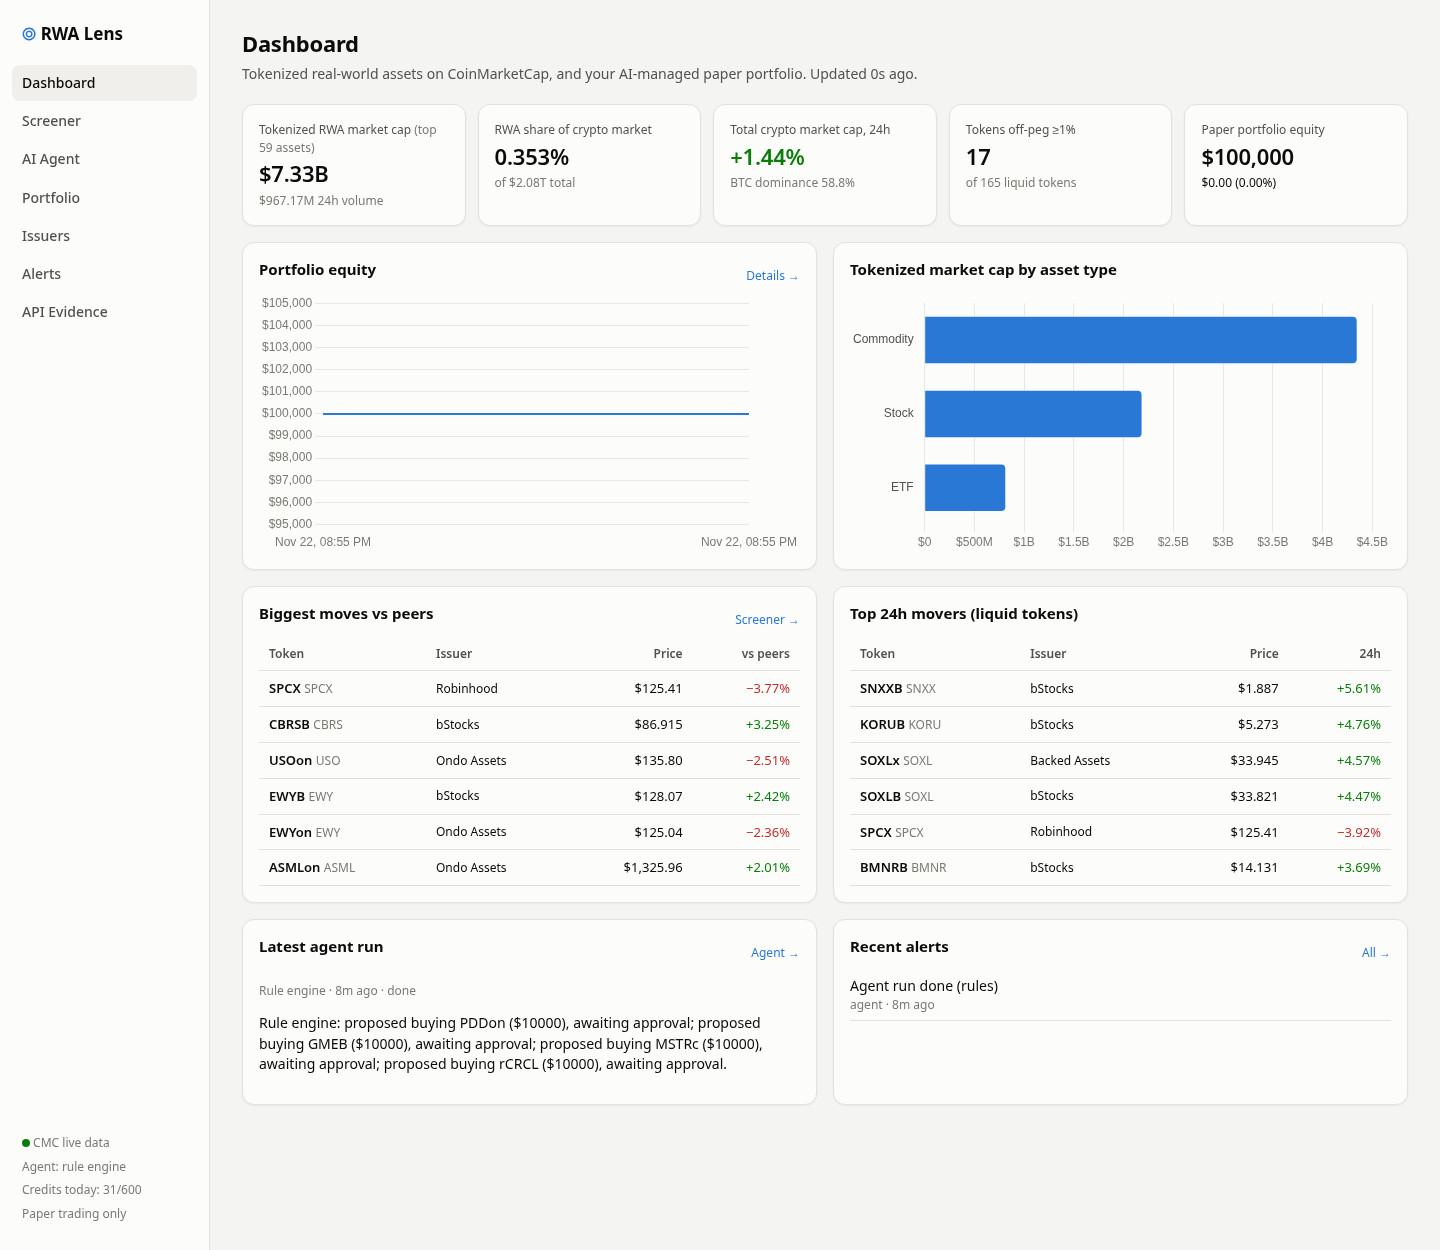
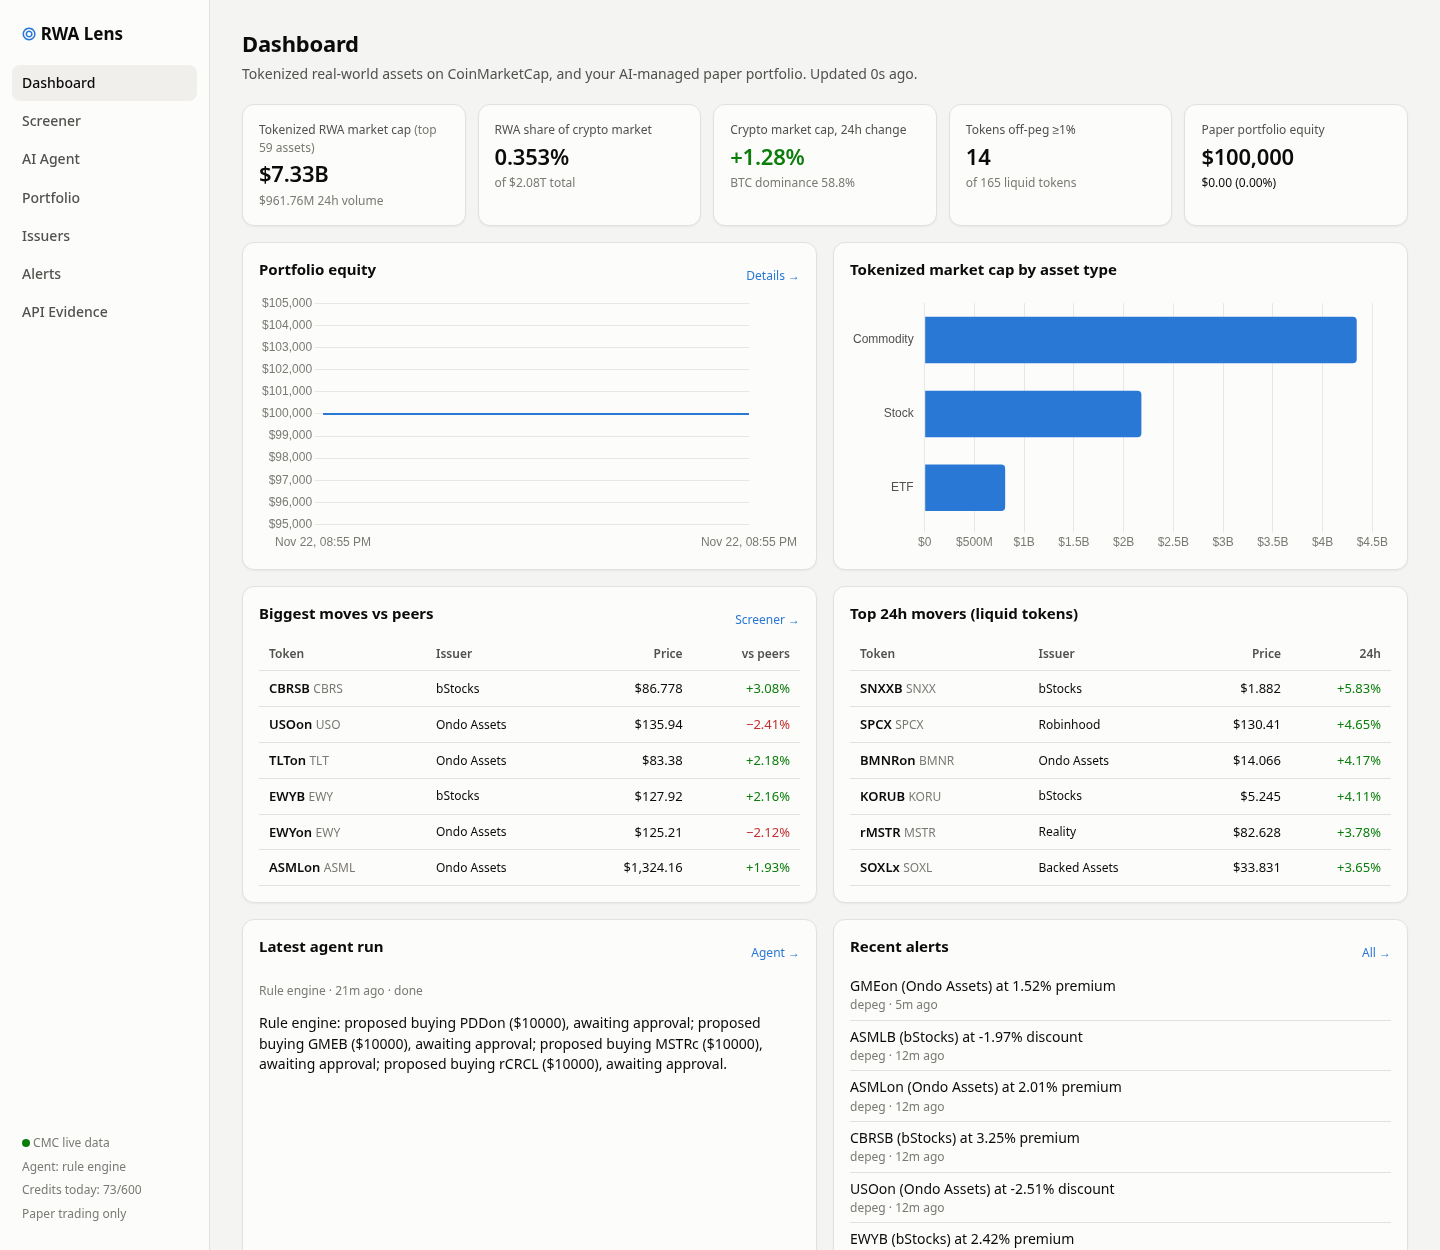
fix(web): mobile layout, keyboard-friendly dialogs and clearer labels
QA pass driving headless Chrome over every route in light, dark and
phone viewports plus mock mode (no JS errors, no failed requests).

- Agent page no longer overflows on phones; runs list becomes a
  horizontal strip
- Secondary table columns hide below 700px (screener, issuers,
  portfolio, approvals) so key numbers stay readable
- Dialogs close on Escape, submit on Enter, focus the first field and
  carry dialog semantics
- Per-page browser titles; clearer 24h crypto market cap label
- API-only server explains how to build or run the UI instead of 404
- Refreshed README screenshots

diff --git a/web/src/pages/portfolio.ts b/web/src/pages/portfolio.ts
@@ -18,14 +18,14 @@ export async function renderPortfolio(app: HTMLElement, token: number) {
     </div>
     <div class="card"><h2>Equity over time</h2><div class="chart-box">${eq.length > 1 ? `<canvas id="eq"></canvas>` : `<div class="empty">No history yet.</div>`}</div></div>
     <div class="card" style="margin-top:16px"><h2>Positions</h2>
-      ${pf.positions.length ? `<div class="table-wrap"><table><thead><tr><th>Token</th><th>Asset</th><th class="num">Qty</th><th class="num">Avg cost</th><th class="num">Last</th><th class="num">Value</th><th class="num">Unrealized</th><th>Opened</th><th></th></tr></thead><tbody>
-      ${pf.positions.map((p: any, i: number) => `<tr><td><span class="sym">${esc(p.symbol)}</span><div class="small muted">${esc(p.issuerName ?? "")}</div></td><td>${esc(p.assetSymbol)}</td><td class="num">${Number(p.qty.toPrecision(6))}</td><td class="num">${usd(p.avgCost)}</td><td class="num">${usd(p.lastPrice)}<div class="small muted">${ago(p.lastPricedAt)}</div></td><td class="num">${usd(p.value)}</td><td class="num">${signedUsd(p.unrealizedPnl)}<div class="small">${pct(p.unrealizedPct)}</div></td><td class="small muted">${ago(p.openedAt)}</td>
+      ${pf.positions.length ? `<div class="table-wrap"><table><thead><tr><th>Token</th><th>Asset</th><th class="num">Qty</th><th class="num hide-sm">Avg cost</th><th class="num">Last</th><th class="num">Value</th><th class="num">Unrealized</th><th class="hide-sm">Opened</th><th></th></tr></thead><tbody>
+      ${pf.positions.map((p: any, i: number) => `<tr><td><span class="sym">${esc(p.symbol)}</span><div class="small muted">${esc(p.issuerName ?? "")}</div></td><td>${esc(p.assetSymbol)}</td><td class="num">${Number(p.qty.toPrecision(6))}</td><td class="num hide-sm">${usd(p.avgCost)}</td><td class="num">${usd(p.lastPrice)}<div class="small muted">${ago(p.lastPricedAt)}</div></td><td class="num">${usd(p.value)}</td><td class="num">${signedUsd(p.unrealizedPnl)}<div class="small">${pct(p.unrealizedPct)}</div></td><td class="small muted hide-sm">${ago(p.openedAt)}</td>
         <td class="row" style="flex-wrap:nowrap"><button class="sm" data-buy="${i}">Add</button><button class="sm" data-sell="${i}">Sell</button></td></tr>`).join("")}
       </tbody></table></div>` : `<div class="empty">No open positions. Run the agent or trade from the <a href="#/screener">screener</a>.</div>`}
     </div>
     <div class="card" style="margin-top:16px"><h2>Order history</h2>
-      ${orders.length ? `<div class="table-wrap"><table><thead><tr><th>Time</th><th>Source</th><th>Side</th><th>Token</th><th class="num">Notional</th><th class="num">Price</th><th class="num">Slip</th><th class="num">Realized</th><th>Status</th><th>Reason</th></tr></thead><tbody>
-      ${orders.map((o) => `<tr><td class="small muted">${new Date(o.at).toLocaleString([], { month: "short", day: "numeric", hour: "2-digit", minute: "2-digit" })}</td><td class="small">${esc(o.source)}</td><td><b>${o.side.toUpperCase()}</b></td><td class="sym">${esc(o.symbol)}</td><td class="num">${o.status === "filled" ? usd(o.notional) : o.requestedUsd ? usd(o.requestedUsd) : "—"}</td><td class="num">${o.status === "filled" ? usd(o.price) : "—"}</td><td class="num small">${o.status === "filled" ? `${o.slippageBps.toFixed(1)} bps` : ""}</td><td class="num">${o.side === "sell" && o.status === "filled" ? signedUsd(o.realizedPnl) : ""}</td><td class="small ${o.status === "rejected" ? "down" : ""}">${esc(o.status)}${o.rejectReason && o.status === "rejected" ? `<div class="muted">${esc(o.rejectReason)}</div>` : ""}</td><td class="small">${esc(o.reason)}</td></tr>`).join("")}
+      ${orders.length ? `<div class="table-wrap"><table><thead><tr><th>Time</th><th class="hide-sm">Source</th><th>Side</th><th>Token</th><th class="num">Notional</th><th class="num">Price</th><th class="num hide-sm">Slip</th><th class="num">Realized</th><th>Status</th><th class="hide-sm">Reason</th></tr></thead><tbody>
+      ${orders.map((o) => `<tr><td class="small muted">${new Date(o.at).toLocaleString([], { month: "short", day: "numeric", hour: "2-digit", minute: "2-digit" })}</td><td class="small hide-sm">${esc(o.source)}</td><td><b>${o.side.toUpperCase()}</b></td><td class="sym">${esc(o.symbol)}</td><td class="num">${o.status === "filled" ? usd(o.notional) : o.requestedUsd ? usd(o.requestedUsd) : "—"}</td><td class="num">${o.status === "filled" ? usd(o.price) : "—"}</td><td class="num small hide-sm">${o.status === "filled" ? `${o.slippageBps.toFixed(1)} bps` : ""}</td><td class="num">${o.side === "sell" && o.status === "filled" ? signedUsd(o.realizedPnl) : ""}</td><td class="small ${o.status === "rejected" ? "down" : ""}">${esc(o.status)}${o.rejectReason && o.status === "rejected" ? `<div class="muted">${esc(o.rejectReason)}</div>` : ""}</td><td class="small hide-sm">${esc(o.reason)}</td></tr>`).join("")}
       </tbody></table></div>` : `<div class="empty">No orders yet.</div>`}
     </div>`;
 

diff --git a/web/src/pages/screener.ts b/web/src/pages/screener.ts
@@ -2,16 +2,16 @@ import { isCurrent } from "../main";
 import { ago, api, chips, esc, pct, scoreCell, typeLabel, usd } from "../lib";
 import { openTrade } from "../trade";
 
-const COLS: { key: string; label: string; num?: boolean }[] = [
+const COLS: { key: string; label: string; num?: boolean; sm?: boolean }[] = [
   { key: "symbol", label: "Token" },
-  { key: "assetSymbol", label: "Asset" },
-  { key: "issuerName", label: "Issuer" },
+  { sm: true, key: "assetSymbol", label: "Asset" },
+  { sm: true, key: "issuerName", label: "Issuer" },
   { key: "price", label: "Price", num: true },
   { key: "premiumPct", label: "vs peers", num: true },
   { key: "change24h", label: "24h", num: true },
-  { key: "change7d", label: "7d", num: true },
-  { key: "mcap", label: "Mkt cap", num: true },
-  { key: "vol24h", label: "24h vol", num: true },
+  { sm: true, key: "change7d", label: "7d", num: true },
+  { sm: true, key: "mcap", label: "Mkt cap", num: true },
+  { sm: true, key: "vol24h", label: "24h vol", num: true },
   { key: "score", label: "Score", num: true },
 ];
 
@@ -51,19 +51,19 @@ export async function renderScreener(app: HTMLElement, token: number, params: UR
       tbl.innerHTML = `<div class="empty">No tokens match these filters.</div>`;
       return;
     }
-    tbl.innerHTML = `<table><thead><tr>${COLS.map((c) => `<th class="sortable ${c.num ? "num" : ""}" data-k="${c.key}">${c.label}${state.sort === c.key ? (state.dir === "asc" ? " ↑" : " ↓") : ""}</th>`).join("")}<th>Signals</th><th></th></tr></thead><tbody>
+    tbl.innerHTML = `<table><thead><tr>${COLS.map((c) => `<th class="sortable ${c.num ? "num" : ""} ${c.sm ? "hide-sm" : ""}" data-k="${c.key}">${c.label}${state.sort === c.key ? (state.dir === "asc" ? " ↑" : " ↓") : ""}</th>`).join("")}<th class="hide-sm">Signals</th><th></th></tr></thead><tbody>
       ${data.rows.map((r: any, i: number) => `<tr class="clickable" data-rwa="${r.rwaId}">
         <td><span class="sym">${esc(r.symbol)}</span><div class="small muted">${esc(r.name)}</div></td>
-        <td>${esc(r.assetSymbol)}<div class="small muted">${typeLabel(r.assetType)}</div></td>
-        <td class="small">${esc(r.issuerName)}</td>
+        <td class="hide-sm">${esc(r.assetSymbol)}<div class="small muted">${typeLabel(r.assetType)}</div></td>
+        <td class="small hide-sm">${esc(r.issuerName)}</td>
         <td class="num">${usd(r.price)}</td>
         <td class="num">${r.premiumPct == null ? `<span class="muted" title="${r.signals.includes("UNIT_MISMATCH") ? "different unit from its siblings" : "no comparable sibling"}">n/a</span>` : pct(r.premiumPct)}</td>
         <td class="num">${pct(r.change24h)}</td>
-        <td class="num">${pct(r.change7d)}</td>
-        <td class="num">${usd(r.mcap, { compact: true })}</td>
-        <td class="num">${usd(r.vol24h, { compact: true })}</td>
+        <td class="num hide-sm">${pct(r.change7d)}</td>
+        <td class="num hide-sm">${usd(r.mcap, { compact: true })}</td>
+        <td class="num hide-sm">${usd(r.vol24h, { compact: true })}</td>
         <td class="num">${scoreCell(r.score)}</td>
-        <td>${chips(r.signals)}</td>
+        <td class="hide-sm">${chips(r.signals)}</td>
         <td><button class="sm" data-trade="${i}">Trade</button></td>
       </tr>`).join("")}
     </tbody></table>`;

diff --git a/web/src/pages/issuers.ts b/web/src/pages/issuers.ts
@@ -10,8 +10,8 @@ export async function renderIssuers(app: HTMLElement, token: number) {
     <h1>Issuer scorecard</h1>
     <p class="sub">Who tokenizes what, built from the tokens in the screener universe plus CMC's issuer directory (${d.directoryCount} issuers listed). <b>Peg tightness</b> is the average absolute deviation of an issuer's tokens from their peers: lower means tighter tracking.</p>
     <div class="card"><h2>Tokenized market cap by issuer (top 12)</h2><div class="chart-box tall"><canvas id="mc"></canvas></div></div>
-    <div class="card" style="margin-top:16px"><div class="table-wrap"><table><thead><tr><th>Issuer</th><th class="num">Tokens</th><th class="num">Assets</th><th>Types</th><th class="num">Mkt cap</th><th class="num">24h vol</th><th class="num">Turnover</th><th class="num">Peg tightness</th></tr></thead><tbody>
-      ${rows.map((r: any) => `<tr><td><b>${esc(r.issuer)}</b>${r.website ? `<div class="small"><a href="${esc(r.website)}" target="_blank" rel="noopener">${esc(r.website.replace(/^https?:\/\//, ""))}</a></div>` : ""}</td><td class="num">${r.tokens}${r.totalTokensListed ? `<div class="small muted">${r.totalTokensListed} listed</div>` : ""}</td><td class="num">${r.assets}</td><td class="small">${r.assetTypes.map(typeLabel).join(", ")}</td><td class="num">${usd(r.mcap, { compact: true })}</td><td class="num">${usd(r.vol24h, { compact: true })}</td><td class="num">${r.turnover == null ? "—" : `${(r.turnover * 100).toFixed(1)}%`}</td><td class="num">${r.avgAbsPremiumPct == null ? "—" : `±${r.avgAbsPremiumPct.toFixed(2)}%`}</td></tr>`).join("")}
+    <div class="card" style="margin-top:16px"><div class="table-wrap"><table><thead><tr><th>Issuer</th><th class="num">Tokens</th><th class="num hide-sm">Assets</th><th class="hide-sm">Types</th><th class="num">Mkt cap</th><th class="num">24h vol</th><th class="num hide-sm">Turnover</th><th class="num">Peg tightness</th></tr></thead><tbody>
+      ${rows.map((r: any) => `<tr><td><b>${esc(r.issuer)}</b>${r.website ? `<div class="small"><a href="${esc(r.website)}" target="_blank" rel="noopener">${esc(r.website.replace(/^https?:\/\//, ""))}</a></div>` : ""}</td><td class="num">${r.tokens}${r.totalTokensListed ? `<div class="small muted">${r.totalTokensListed} listed</div>` : ""}</td><td class="num hide-sm">${r.assets}</td><td class="small hide-sm">${r.assetTypes.map(typeLabel).join(", ")}</td><td class="num">${usd(r.mcap, { compact: true })}</td><td class="num">${usd(r.vol24h, { compact: true })}</td><td class="num hide-sm">${r.turnover == null ? "—" : `${(r.turnover * 100).toFixed(1)}%`}</td><td class="num">${r.avgAbsPremiumPct == null ? "—" : `±${r.avgAbsPremiumPct.toFixed(2)}%`}</td></tr>`).join("")}
     </tbody></table></div></div>`;
   barChart(app.querySelector("#mc")!, top.map((r: any) => r.issuer), top.map((r: any) => r.mcap), compactUsd);
 }

diff --git a/web/src/pages/agent.ts b/web/src/pages/agent.ts
@@ -19,13 +19,13 @@ export async function renderAgent(app: HTMLElement, token: number, runId?: strin
     ${status?.adminRequired ? `<div class="banner">This deployment requires an admin token for actions. <input id="tok" placeholder="admin token" value="${esc(adminToken.get())}" style="margin-left:8px"/> <button class="sm" id="savetok">Save</button></div>` : ""}
 
     ${pf.pending.length ? `<div class="card" style="margin-bottom:16px"><h2>Waiting for your approval (${pf.pending.length})</h2>
-      <div class="table-wrap"><table><thead><tr><th>Side</th><th>Token</th><th class="num">Amount</th><th>Agent's reason</th><th>Proposed</th><th></th></tr></thead><tbody>
-      ${pf.pending.map((o: any) => `<tr><td><b>${o.side.toUpperCase()}</b></td><td class="sym">${esc(o.symbol)}</td><td class="num">${o.side === "buy" ? usd(o.requestedUsd, { dp: 0 }) : o.requestedQty ? "partial" : "close"}</td><td class="small">${esc(o.reason)}</td><td class="small muted">${ago(o.at)}</td>
+      <div class="table-wrap"><table><thead><tr><th>Side</th><th>Token</th><th class="num">Amount</th><th>Agent's reason</th><th class="hide-sm">Proposed</th><th></th></tr></thead><tbody>
+      ${pf.pending.map((o: any) => `<tr><td><b>${o.side.toUpperCase()}</b></td><td class="sym">${esc(o.symbol)}</td><td class="num">${o.side === "buy" ? usd(o.requestedUsd, { dp: 0 }) : o.requestedQty ? "partial" : "close"}</td><td class="small">${esc(o.reason)}</td><td class="small muted hide-sm">${ago(o.at)}</td>
         <td class="row" style="flex-wrap:nowrap"><button class="sm primary" data-approve="${o.id}">Approve</button><button class="sm" data-cancel="${o.id}">Reject</button></td></tr>`).join("")}
       </tbody></table></div>
       <div class="row" style="margin-top:10px"><button class="sm" id="approve-all">Approve all</button></div></div>` : ""}
 
-    <div class="grid" style="grid-template-columns: 300px minmax(0,1fr)">
+    <div class="grid runs-layout">
       <div class="card"><h2>Runs</h2><div id="runs">${runs.length ? runs.map((r) => `
         <div class="run-item ${r.id === selected ? "active" : ""}" data-run="${r.id}">
           <div class="spread"><b>${r.engine === "claude" ? "Claude" : "Rules"}</b><span class="small muted">${ago(r.startedAt)}</span></div>

diff --git a/web/src/style.css b/web/src/style.css
@@ -76,6 +76,7 @@ main { padding: 28px 32px 60px; min-width: 0; max-width: 1400px; }
 .grid { display: grid; gap: 16px; }
 .cols-2 { grid-template-columns: repeat(2, minmax(0, 1fr)); }
 .cols-3 { grid-template-columns: repeat(3, minmax(0, 1fr)); }
+.runs-layout { grid-template-columns: 300px minmax(0, 1fr); }
 .tiles { display: grid; gap: 12px; grid-template-columns: repeat(auto-fit, minmax(170px, 1fr)); margin-bottom: 16px; }
 .card { background: var(--surface-1); border: 1px solid var(--border); border-radius: 12px; padding: 16px; box-shadow: var(--shadow); min-width: 0; }
 .tile .label { color: var(--text-secondary); font-size: 12px; }
@@ -143,6 +144,11 @@ details summary { cursor: pointer; color: var(--text-secondary); font-size: 12px
 .dot.live { background: var(--good); }
 .dot.mock { background: #eda100; }
 
+@media (max-width: 700px) {
+  .hide-sm { display: none; }
+  h1 { font-size: 20px; }
+  .tile .value { font-size: 19px; }
+}
 @media (max-width: 900px) {
   .shell { grid-template-columns: 1fr; }
   .nav { position: static; height: auto; flex-direction: row; flex-wrap: wrap; align-items: center; gap: 8px; padding: 10px 16px; }
@@ -150,7 +156,9 @@ details summary { cursor: pointer; color: var(--text-secondary); font-size: 12px
   .brand { padding: 4px 8px; }
   .nav-foot { display: none; }
   main { padding: 18px 16px 40px; }
-  .cols-2, .cols-3 { grid-template-columns: 1fr; }
+  .cols-2, .cols-3, .runs-layout { grid-template-columns: 1fr; }
+  #runs { display: flex; gap: 6px; overflow-x: auto; }
+  #runs .run-item { min-width: 170px; }
 }
 td.params { max-width: 320px; overflow: hidden; text-overflow: ellipsis; white-space: nowrap; }
 td.nowrap { white-space: nowrap; }

diff --git a/web/src/pages/dashboard.ts b/web/src/pages/dashboard.ts
@@ -20,7 +20,7 @@ export async function renderDashboard(app: HTMLElement, token: number) {
     <div class="tiles">
       <div class="card tile"><div class="label">Tokenized RWA market cap <span class="muted">(top ${ov.rwa.assets} assets)</span></div><div class="value">${usd(ov.rwa.tokenizedMcap, { compact: true })}</div><div class="delta muted">${usd(ov.rwa.vol24h, { compact: true })} 24h volume</div></div>
       <div class="card tile"><div class="label">RWA share of crypto market</div><div class="value">${ov.rwaSharePct?.toFixed(3) ?? "—"}%</div><div class="delta muted">of ${usd(ov.crypto.totalMcap, { compact: true })} total</div></div>
-      <div class="card tile"><div class="label">Total crypto market cap, 24h</div><div class="value">${pct(ov.crypto.totalMcapChange24h)}</div><div class="delta muted">BTC dominance ${ov.crypto.btcDominance?.toFixed(1)}%</div></div>
+      <div class="card tile"><div class="label">Crypto market cap, 24h change</div><div class="value">${pct(ov.crypto.totalMcapChange24h)}</div><div class="delta muted">BTC dominance ${ov.crypto.btcDominance?.toFixed(1)}%</div></div>
       <div class="card tile"><div class="label">Tokens off-peg ≥1%</div><div class="value">${ov.depegCount}</div><div class="delta muted">of ${ov.rwa.tradableTokens} liquid tokens</div></div>
       <div class="card tile"><div class="label">Paper portfolio equity</div><div class="value">${usd(pf.equity, { dp: 0 })}</div><div class="delta">${signedUsd(pf.totalPnl)} (${pct(pf.totalPnlPct)})</div></div>
     </div>

diff --git a/server/index.ts b/server/index.ts
@@ -16,13 +16,17 @@ const dist = path.join(ROOT, "web", "dist");
 if (fs.existsSync(dist)) {
   await app.register(fastifyStatic, { root: dist });
   app.setNotFoundHandler((req, reply) => (req.url.startsWith("/api/") ? reply.code(404).send({ error: "not found" }) : reply.sendFile("index.html")));
+} else {
+  // API-only (e.g. `npm run dev`, where Vite serves the UI on :5173)
+  app.get("/", async (_req, reply) =>
+    reply.type("text/html").send(`<p style="font-family:sans-serif">RWA Lens API is running. Build the UI with <code>npm run build</code> and restart, or use <code>npm run dev</code> and open <a href="http://localhost:5173">http://localhost:5173</a>.</p>`));
 }
 
 closeStaleRuns();
 startScheduler();
 
 await app.listen({ port: config.port, host: process.env.HOST ?? "0.0.0.0" });
-console.log(`RWA Lens API on http://localhost:${config.port}`);
+console.log(`RWA Lens on http://localhost:${config.port}${fs.existsSync(dist) ? "" : "  (API only - UI not built; run npm run build, or npm run dev for :5173)"}`);
 console.log(`  CMC data: ${mockMode() ? "MOCK (no CMC_API_KEY - synthetic/recorded fixtures)" : "LIVE"}`);
 console.log(`  Agent engine: ${resolveEngine()}${resolveEngine() === "rules" ? " (set ANTHROPIC_API_KEY to use Claude)" : ` (${config.anthropicModel})`}`);
 console.log(`  Paper trading only: no real orders are ever sent.`);

diff --git a/web/src/lib.ts b/web/src/lib.ts
@@ -62,9 +62,21 @@ export function toast(msg: string, err = false) {
 export function modal(html: string, onMount: (root: HTMLElement, close: () => void) => void) {
   const root = document.getElementById("modal-root")!;
   root.innerHTML = `<div class="modal-backdrop"><div class="modal">${html}</div></div>`;
-  const close = () => (root.innerHTML = "");
+  const onKey = (e: KeyboardEvent) => {
+    if (e.key === "Escape") close();
+    if (e.key === "Enter" && (e.target as HTMLElement).tagName === "INPUT") root.querySelector<HTMLButtonElement>(".modal button.primary")?.click();
+  };
+  const close = () => {
+    root.innerHTML = "";
+    document.removeEventListener("keydown", onKey);
+  };
+  document.addEventListener("keydown", onKey);
   root.querySelector(".modal-backdrop")!.addEventListener("click", (e) => { if (e.target === e.currentTarget) close(); });
-  onMount(root.querySelector(".modal")!, close);
+  const box = root.querySelector<HTMLElement>(".modal")!;
+  box.setAttribute("role", "dialog");
+  box.setAttribute("aria-modal", "true");
+  onMount(box, close);
+  box.querySelector<HTMLElement>("input, select, button.primary")?.focus();
 }
 
 // ---------- charts ----------

diff --git a/web/src/main.ts b/web/src/main.ts
@@ -50,6 +50,8 @@ async function route() {
   const [path, query] = location.hash.replace(/^#\/?/, "").split("?");
   const parts = path.split("/").filter(Boolean);
   document.querySelectorAll<HTMLAnchorElement>(".nav nav a").forEach((a) => a.classList.toggle("active", a.dataset.route === (parts[0] ?? "")));
+  const titles: Record<string, string> = { screener: "Screener", asset: "Asset", agent: "AI Agent", portfolio: "Portfolio", issuers: "Issuers", alerts: "Alerts", evidence: "API Evidence" };
+  document.title = parts[0] && titles[parts[0]] ? `${titles[parts[0]]} · RWA Lens` : "RWA Lens";
   app.innerHTML = `<div class="spinner">Loading…</div>`;
   window.scrollTo(0, 0);
   const params = new URLSearchParams(query ?? "");
